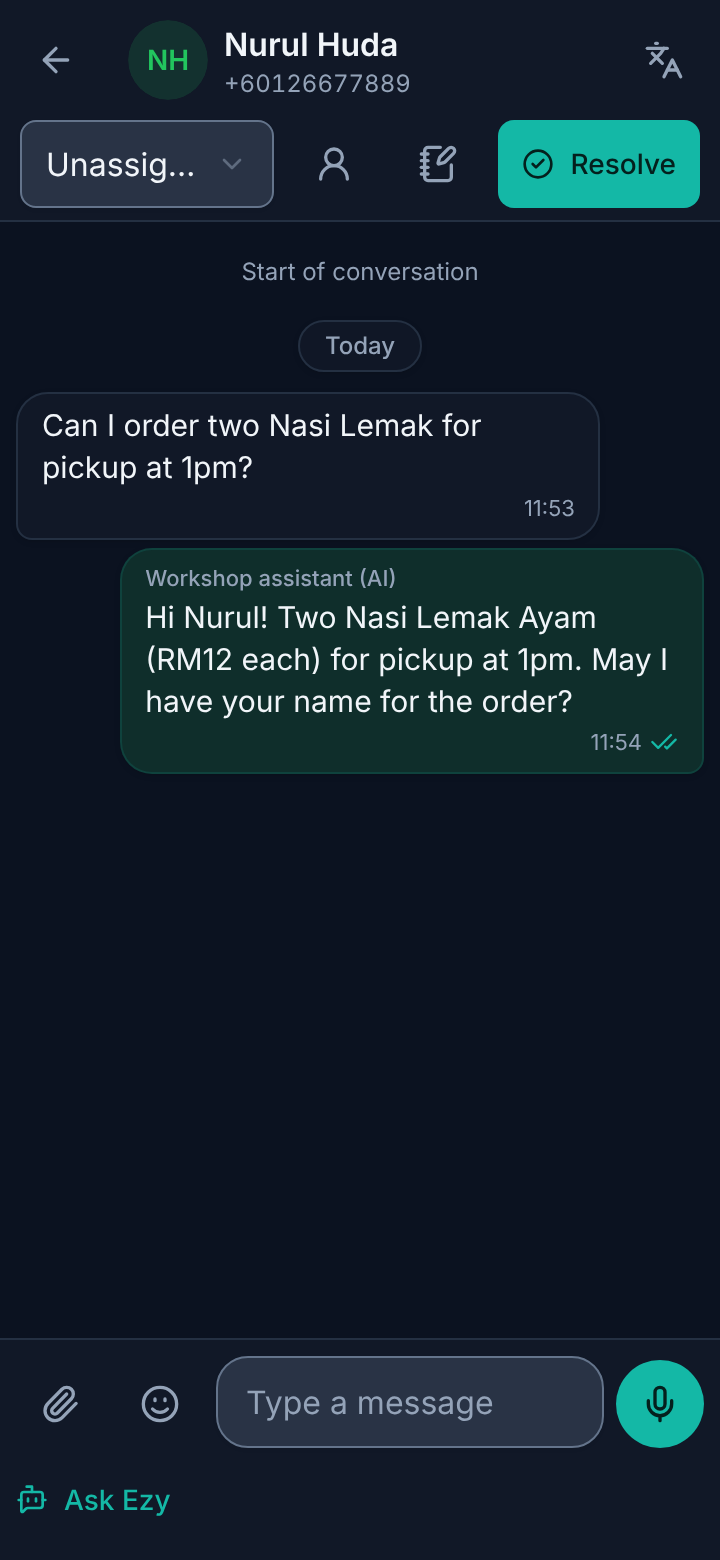
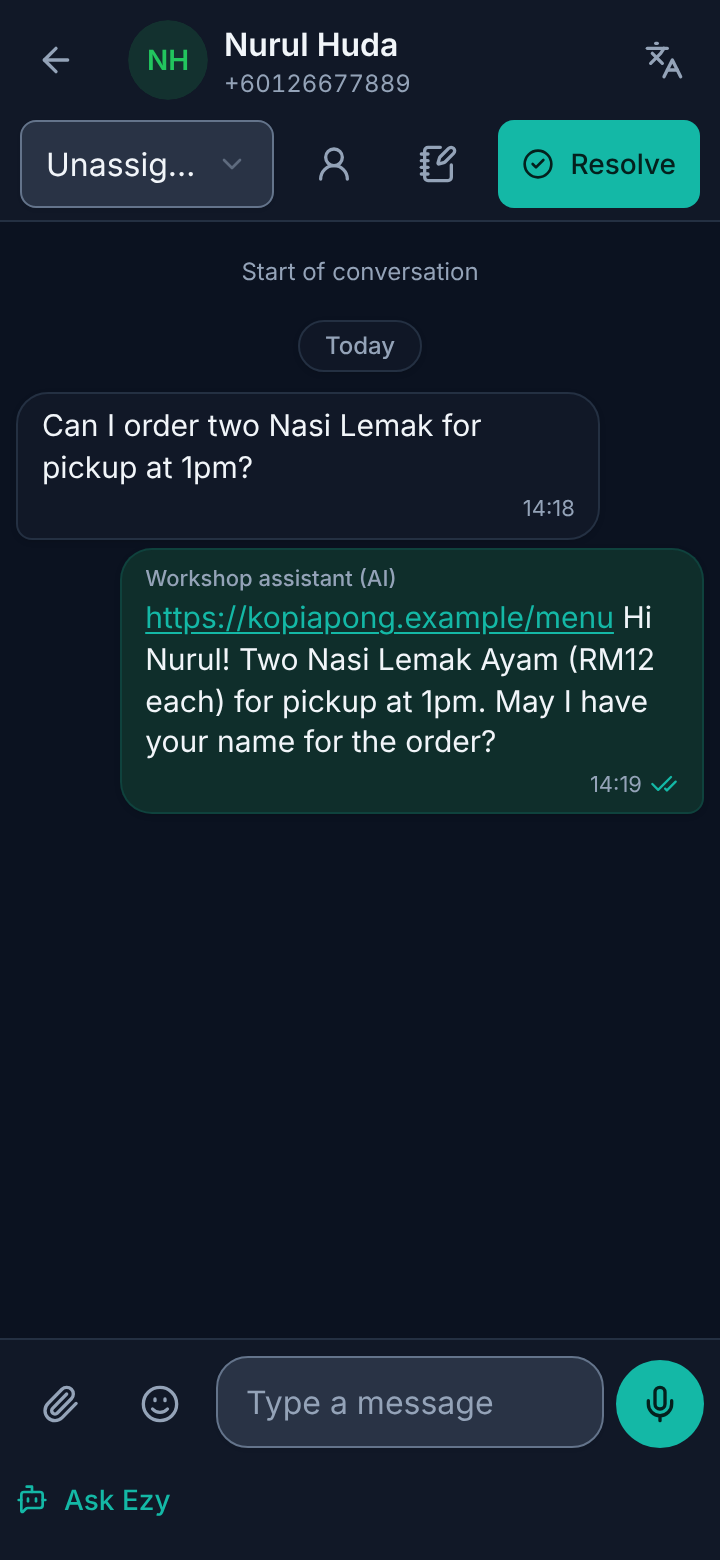
fix(web): agent name's touch area stays in its own row, never over the reply text
On touch screens the link's 44 px came from a positioned after: box that reached ~15 px above and
below the 11 px name and painted over the unpositioned text below: a tap on a link at the start of
an AI reply opened the agent page. The link is now 44 px tall itself (pointer-coarse:min-h-11) in a
row pulled up to the bubble's top padding edge, so it covers nothing else.

- unit test: the link has no relative/after: box and carries its own touch height
- e2e/agent-link-screens.mjs: on phone sizes the first line of the reply (a URL) is what a tap
  there hits (fails on the old code, passes now)
- design-system and LEARNINGS updated

Claude-Session: https://claude.ai/code/session_01J4pmGhscE1Pitd3MKKnC8s

Changed region(s): [[0.1528, 0.3692, 0.9778, 0.5231], [0.7333, 0.3077, 0.7944, 0.3385]]

diff --git a/apps/web/src/inbox/MessageBubble.tsx b/apps/web/src/inbox/MessageBubble.tsx
@@ -108,7 +108,8 @@ function AgentLink({
       aria-label={open}
       title={open}
       data-testid="agent-link"
-      className="group relative inline-flex max-w-full align-top underline decoration-dotted underline-offset-2 outline-none [-webkit-touch-callout:none] hover:decoration-solid pointer-coarse:after:absolute pointer-coarse:after:-inset-x-1 pointer-coarse:after:-inset-y-[15px] pointer-coarse:after:content-['']"
+      // touch: the link itself is 44 px tall inside its own row (no box reaching over the text below)
+      className="group inline-flex max-w-full items-center underline decoration-dotted underline-offset-2 outline-none [-webkit-touch-callout:none] hover:decoration-solid pointer-coarse:min-h-11"
     >
       <span className="truncate rounded-sm group-focus-visible:ring-2 group-focus-visible:ring-ring">
         {label}
@@ -454,11 +455,12 @@ export function MessageBubble({
           )
         )}
         {out && outboundLabel && (
-          // The link keeps its own truncation so the paragraph does not clip its focus ring or hit area.
+          // The link keeps its own truncation so the paragraph does not clip its focus ring.
           <p
             className={cn(
               'mb-0.5 text-[11px] font-medium text-muted-foreground',
-              outboundHref ? 'flex min-w-0' : 'truncate',
+              // touch: the 44 px row starts at the bubble's top padding edge, so it covers nothing else
+              outboundHref ? 'flex min-w-0 pointer-coarse:-mt-1.5 pointer-coarse:mb-0' : 'truncate',
             )}
           >
             {outboundHref ? (

diff --git a/apps/web/src/inbox/MessageList.test.tsx b/apps/web/src/inbox/MessageList.test.tsx
@@ -174,6 +174,13 @@ describe('MessageList AI agent link', () => {
     fireEvent.click(link);
     expect(guard).toHaveBeenCalledTimes(1);
   });
+  it('keeps its touch area in its own row, never as a box over the text below', () => {
+    view(dir(true, {}));
+    const link = screen.getByTestId('agent-link');
+    // a positioned link with an after: box paints over the message text and steals its taps
+    expect(link.className).not.toMatch(/\brelative\b|after:/);
+    expect(link.className).toContain('pointer-coarse:min-h-11');
+  });
   it('keeps the context menu for a mouse', () => {
     view(dir(true, {}));
     const link = screen.getByTestId('agent-link');

diff --git a/docs/LEARNINGS.md b/docs/LEARNINGS.md
@@ -1975,7 +1975,9 @@ dirty`): GitHub creates no `pull_request` run until the base is merged in. Check
 - A tappable element inside a swipe/long-press surface (a link or button in a message bubble) checks the surface's
   `wasGesture()` in its `onClick` and drops the click, and a real `<a>` there also blocks the touch link menu
   (`onContextMenu` for touch, `-webkit-touch-callout:none`); never let `overflow:hidden` on a parent clip its focus
-  ring or `after:` hit area.
+  ring. A 44 px hit area for a small label next to other tappable content comes from the label's own row height, never
+  from an `after:` box on a `relative` element: that box paints over the unpositioned siblings and steals their taps
+  (a link at the start of the message text opened the agent page).
 - A glyph a platform lacks (flag emoji on Windows) is fixed with a self-hosted `@font-face` in `index.css` limited by
   `unicode-range` and put first in `--font-sans`, its `src` a package path (Vite resolves it; `build-web-lib.mjs` moves
   it out as a file for Enterprise), never a polyfill's CDN default (CSP `font-src 'self'`). Prove it in e2e through

diff --git a/docs/design-system.md b/docs/design-system.md
@@ -185,7 +185,8 @@ Proposed with the mobile redesign (added when the phone layout is built): `Filte
 - **Inline link in a bubble** (an admin opening the AI agent's page from the name above its message): the small label
   keeps its size and colour and gets a dotted underline (`decoration-dotted`, solid on hover) as the only link cue, so
   it reads as text for everyone else. It truncates on its own inner span, not on the paragraph, so the focus ring is
-  not clipped; on touch screens an `after:` hit area grows it to 44 px; a long press or swipe that starts on it stays
+  not clipped; on touch screens the link is 44 px tall inside its own row (`pointer-coarse:min-h-11`, the row pulled up to the
+  bubble's top padding edge), never an `after:` box that would reach over the message text; a long press or swipe that starts on it stays
   a bubble gesture (no navigation, no browser link menu). Don't turn it into a button or colour it primary. —
   `docs/screenshots/chat/agent-link-*`
 - **Empty states** use `EmptyState` with an illustration from `public/illustrations/`.
